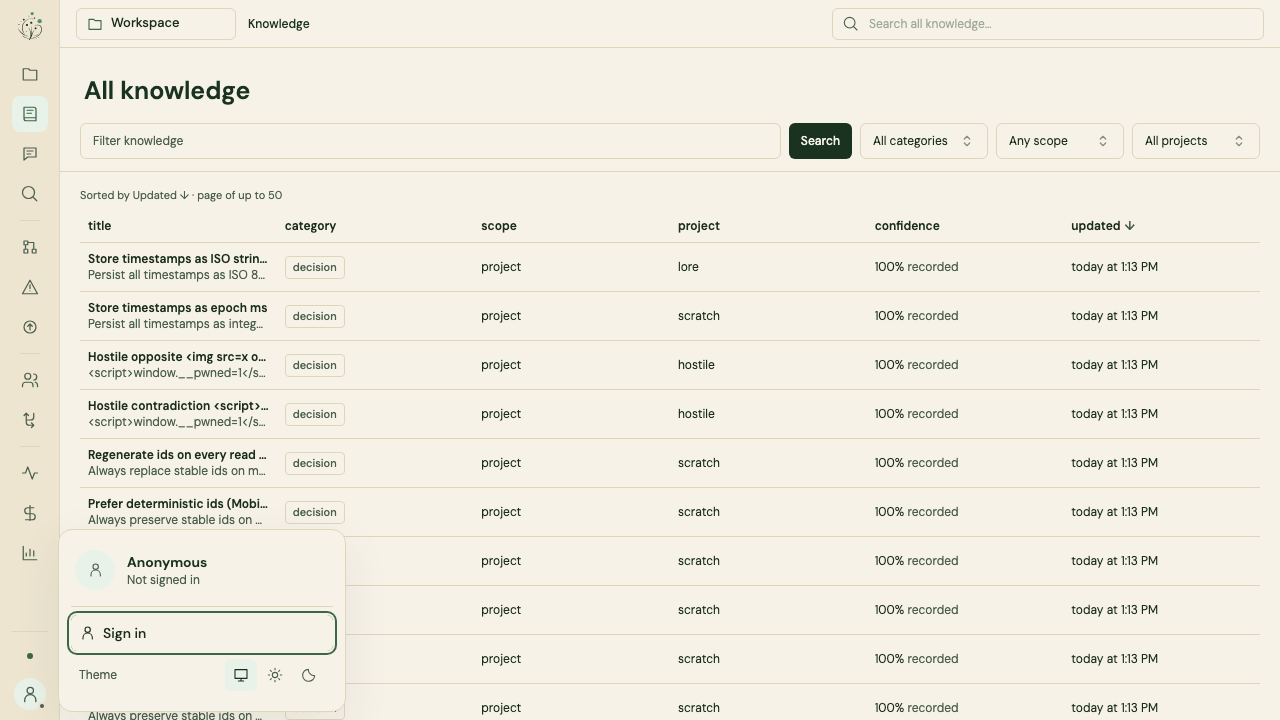
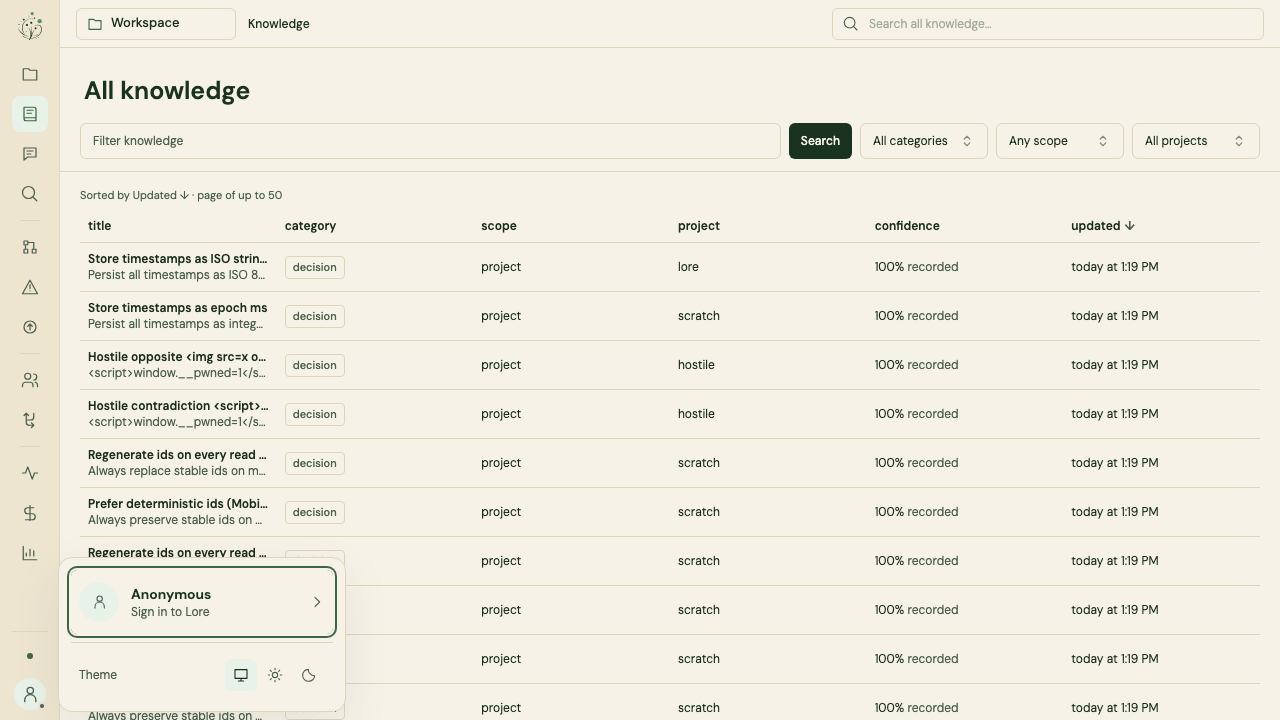
ref(ui): Open sign-in from the anonymous profile row
Make the anonymous account identity the sign-in entry point and remove the
separate menu action. Keep signed-in profiles informational and preserve
keyboard activation, dialog focus return, and the existing CLI guidance.

diff --git a/packages/ui/src/components/shell/FolkStatus.tsx b/packages/ui/src/components/shell/FolkStatus.tsx
@@ -109,6 +109,38 @@ export const FolkStatus: Component = () => {
       syncError: folk.sync.error(),
     }),
   );
+  const ProfileIdentity: Component<{ interactive?: boolean }> = (props) => (
+    <>
+      <Show
+        when={user()}
+        fallback={
+          <span class="flex size-10 shrink-0 items-center justify-center rounded-full bg-soft text-muted">
+            <Icon name="user" />
+          </span>
+        }
+      >
+        <Avatar label={initials()} class="size-10 shrink-0 rounded-full" />
+      </Show>
+      <span class="min-w-0 flex-1">
+        <span
+          data-testid={user() ? "folk-account" : undefined}
+          class="block truncate font-semibold text-heading"
+        >
+          {name()}
+        </span>
+        <span class="block text-xs font-normal text-muted">
+          {props.interactive ? "Sign in to Lore" : summary().label}
+        </span>
+        <Show when={user() && folk.account.data()?.provider}>
+          {(provider) => (
+            <span class="block text-xs font-normal text-muted">
+              via {provider()}
+            </span>
+          )}
+        </Show>
+      </span>
+    </>
+  );
   return (
     <>
       <PopoverPrimitive.Root
@@ -178,49 +210,31 @@ export const FolkStatus: Component = () => {
             <PopoverPrimitive.Title class="sr-only">
               Account & preferences
             </PopoverPrimitive.Title>
-            <div class="flex items-center gap-3 px-1 py-2">
-              <Show
-                when={user()}
-                fallback={
-                  <span class="flex size-10 items-center justify-center rounded-full bg-soft text-muted">
-                    <Icon name="user" />
-                  </span>
-                }
-              >
-                <Avatar label={initials()} class="size-10 rounded-full" />
-              </Show>
-              <div class="min-w-0">
-                <div
-                  data-testid={user() ? "folk-account" : undefined}
-                  class="truncate font-semibold text-heading"
-                >
-                  {name()}
-                </div>
-                <div class="text-xs text-muted">{summary().label}</div>
-                <Show when={user() && folk.account.data()?.provider}>
-                  {(provider) => (
-                    <div class="text-xs text-muted">via {provider()}</div>
-                  )}
-                </Show>
-              </div>
-            </div>
-            <div class="my-2 border-t border-line" />
             <Show
               when={
                 !user() &&
                 (!folk.account.loading() ||
                   folk.account.data()?.state === "anonymous")
               }
+              fallback={
+                <div class="flex items-center gap-3 px-2 py-2">
+                  <ProfileIdentity />
+                </div>
+              }
             >
               <Button
                 variant="ghost"
-                class="h-9 w-full justify-start px-2"
+                class="h-auto min-h-16 w-full justify-start gap-3 px-2 py-2 text-left"
+                aria-label="Sign in to Lore"
+                aria-haspopup="dialog"
+                data-testid="account-profile-sign-in"
                 onClick={showSignIn}
               >
-                <Icon name="user" />
-                Sign in
+                <ProfileIdentity interactive />
+                <Icon name="chevron" class="ml-auto shrink-0 text-muted" />
               </Button>
             </Show>
+            <div class="my-2 border-t border-line" />
             <section
               class="flex items-center justify-between gap-3 px-2 py-2"
               aria-label="Appearance"

diff --git a/packages/ui/e2e/folk-status.spec.ts b/packages/ui/e2e/folk-status.spec.ts
@@ -147,7 +147,16 @@ test("guest avatar keeps preferences and sign-in guidance available at narrow wi
   expect(menuBox.x).toBeGreaterThanOrEqual(0);
   expect(menuBox.x + menuBox.width).toBeLessThanOrEqual(320);
   expect(menuBox.y + menuBox.height).toBeLessThanOrEqual(480);
-  await panel.getByRole("button", { name: "Sign in", exact: true }).click();
+  const profile = panel.getByRole("button", {
+    name: "Sign in to Lore",
+    exact: true,
+  });
+  await expect(profile).toContainText("Anonymous");
+  await expect(
+    panel.getByRole("button", { name: "Sign in", exact: true }),
+  ).toHaveCount(0);
+  await profile.focus();
+  await page.keyboard.press("Enter");
   const login = page.getByRole("dialog", {
     name: "Sign in to Lore",
     exact: true,
@@ -194,7 +203,7 @@ test("signed-in avatar menu keeps preferences without a sign-in action", async (
   const panel = page.getByTestId("folk-status-panel");
   await expect(panel.getByTestId("folk-account")).toHaveText("Ada Lovelace");
   await expect(
-    panel.getByRole("button", { name: "Sign in", exact: true }),
+    panel.getByRole("button", { name: "Sign in to Lore", exact: true }),
   ).toHaveCount(0);
   await expect(
     panel.getByRole("button", { name: "Settings", exact: true }),

diff --git a/packages/ui/test/folk-shell.test.tsx b/packages/ui/test/folk-shell.test.tsx
@@ -631,7 +631,11 @@ describe("rail account menu", () => {
     fireEvent.click(trigger);
     expect(screen.queryByRole("button", { name: "Settings" })).toBeNull();
     expect(screen.getByTestId("theme-toggle")).toBeVisible();
-    fireEvent.click(screen.getByRole("button", { name: "Sign in" }));
+    const profile = screen.getByRole("button", { name: "Sign in to Lore" });
+    await waitFor(() => expect(profile).toHaveTextContent("Anonymous"));
+    expect(profile).toHaveAttribute("aria-haspopup", "dialog");
+    expect(screen.queryByRole("button", { name: "Sign in" })).toBeNull();
+    fireEvent.click(profile);
     const dialog = await screen.findByRole("dialog", {
       name: "Sign in to Lore",
     });
@@ -655,6 +659,8 @@ describe("rail account menu", () => {
     fireEvent.click(screen.getByTestId("folk-status"));
     expect(screen.queryByRole("button", { name: "Settings" })).toBeNull();
     expect(screen.getByTestId("theme-toggle")).toBeVisible();
-    expect(screen.queryByRole("button", { name: "Sign in" })).toBeNull();
+    expect(
+      screen.queryByRole("button", { name: "Sign in to Lore" }),
+    ).toBeNull();
   });
 });
